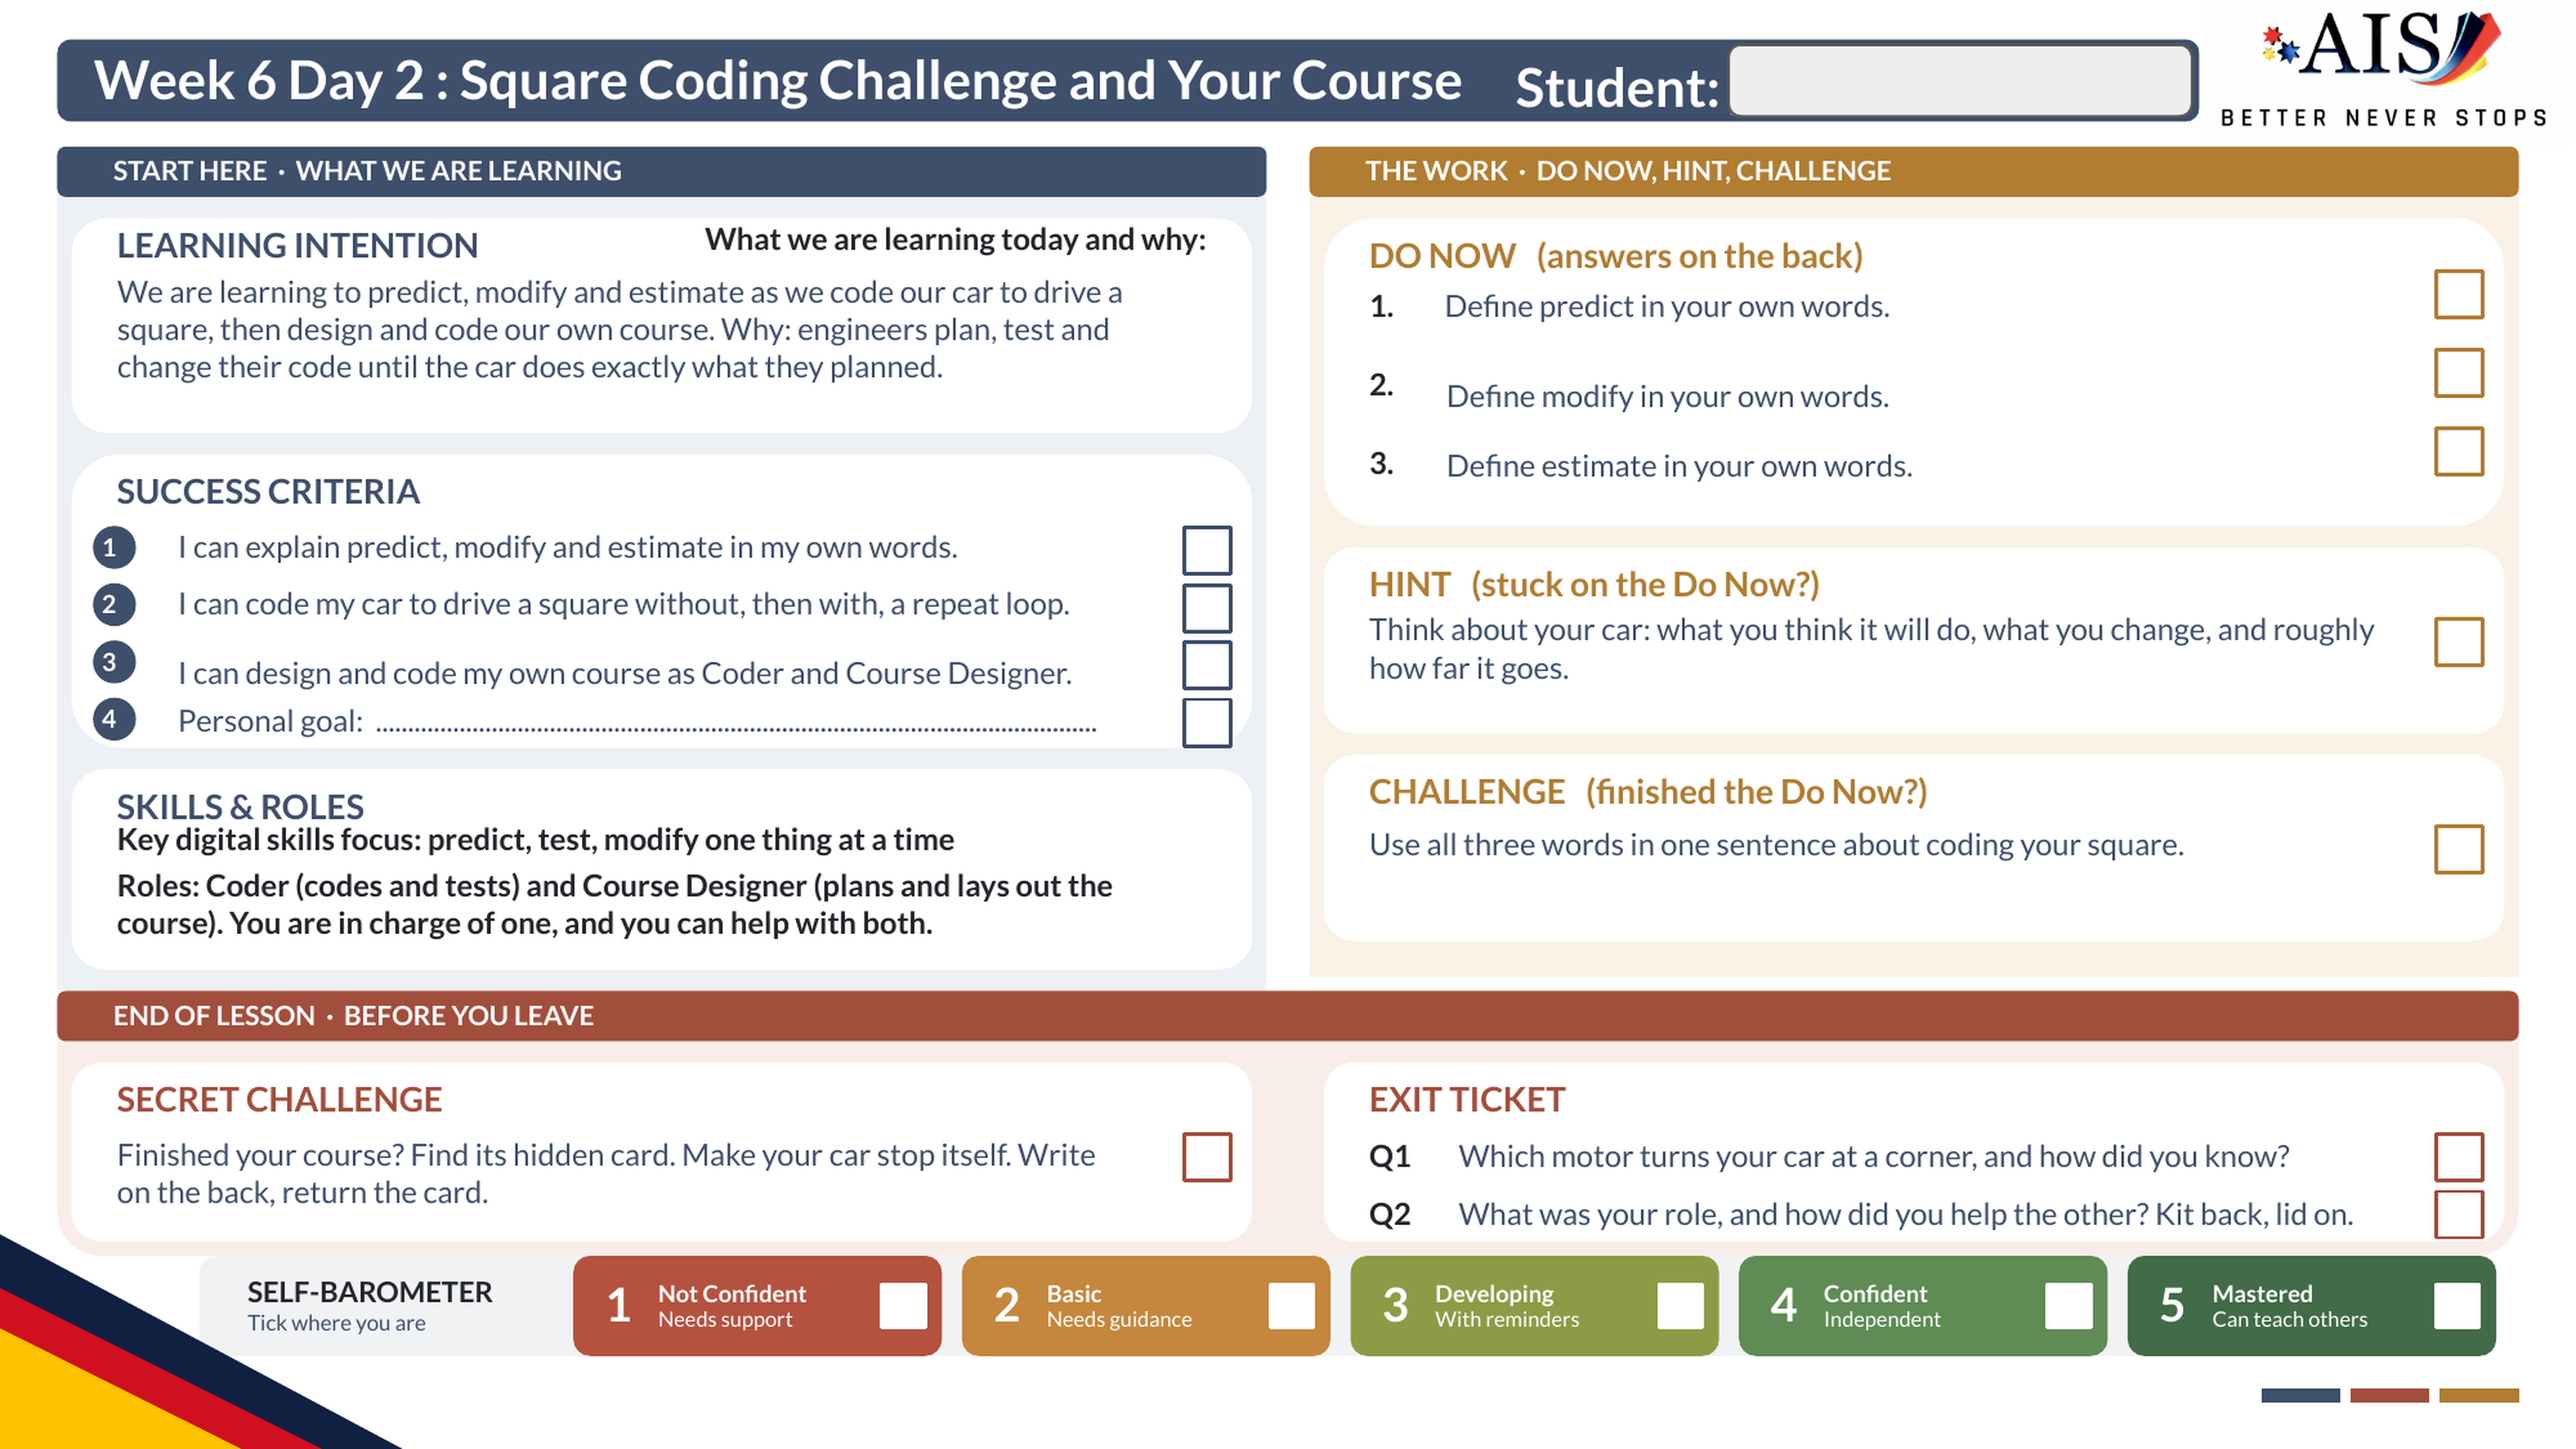
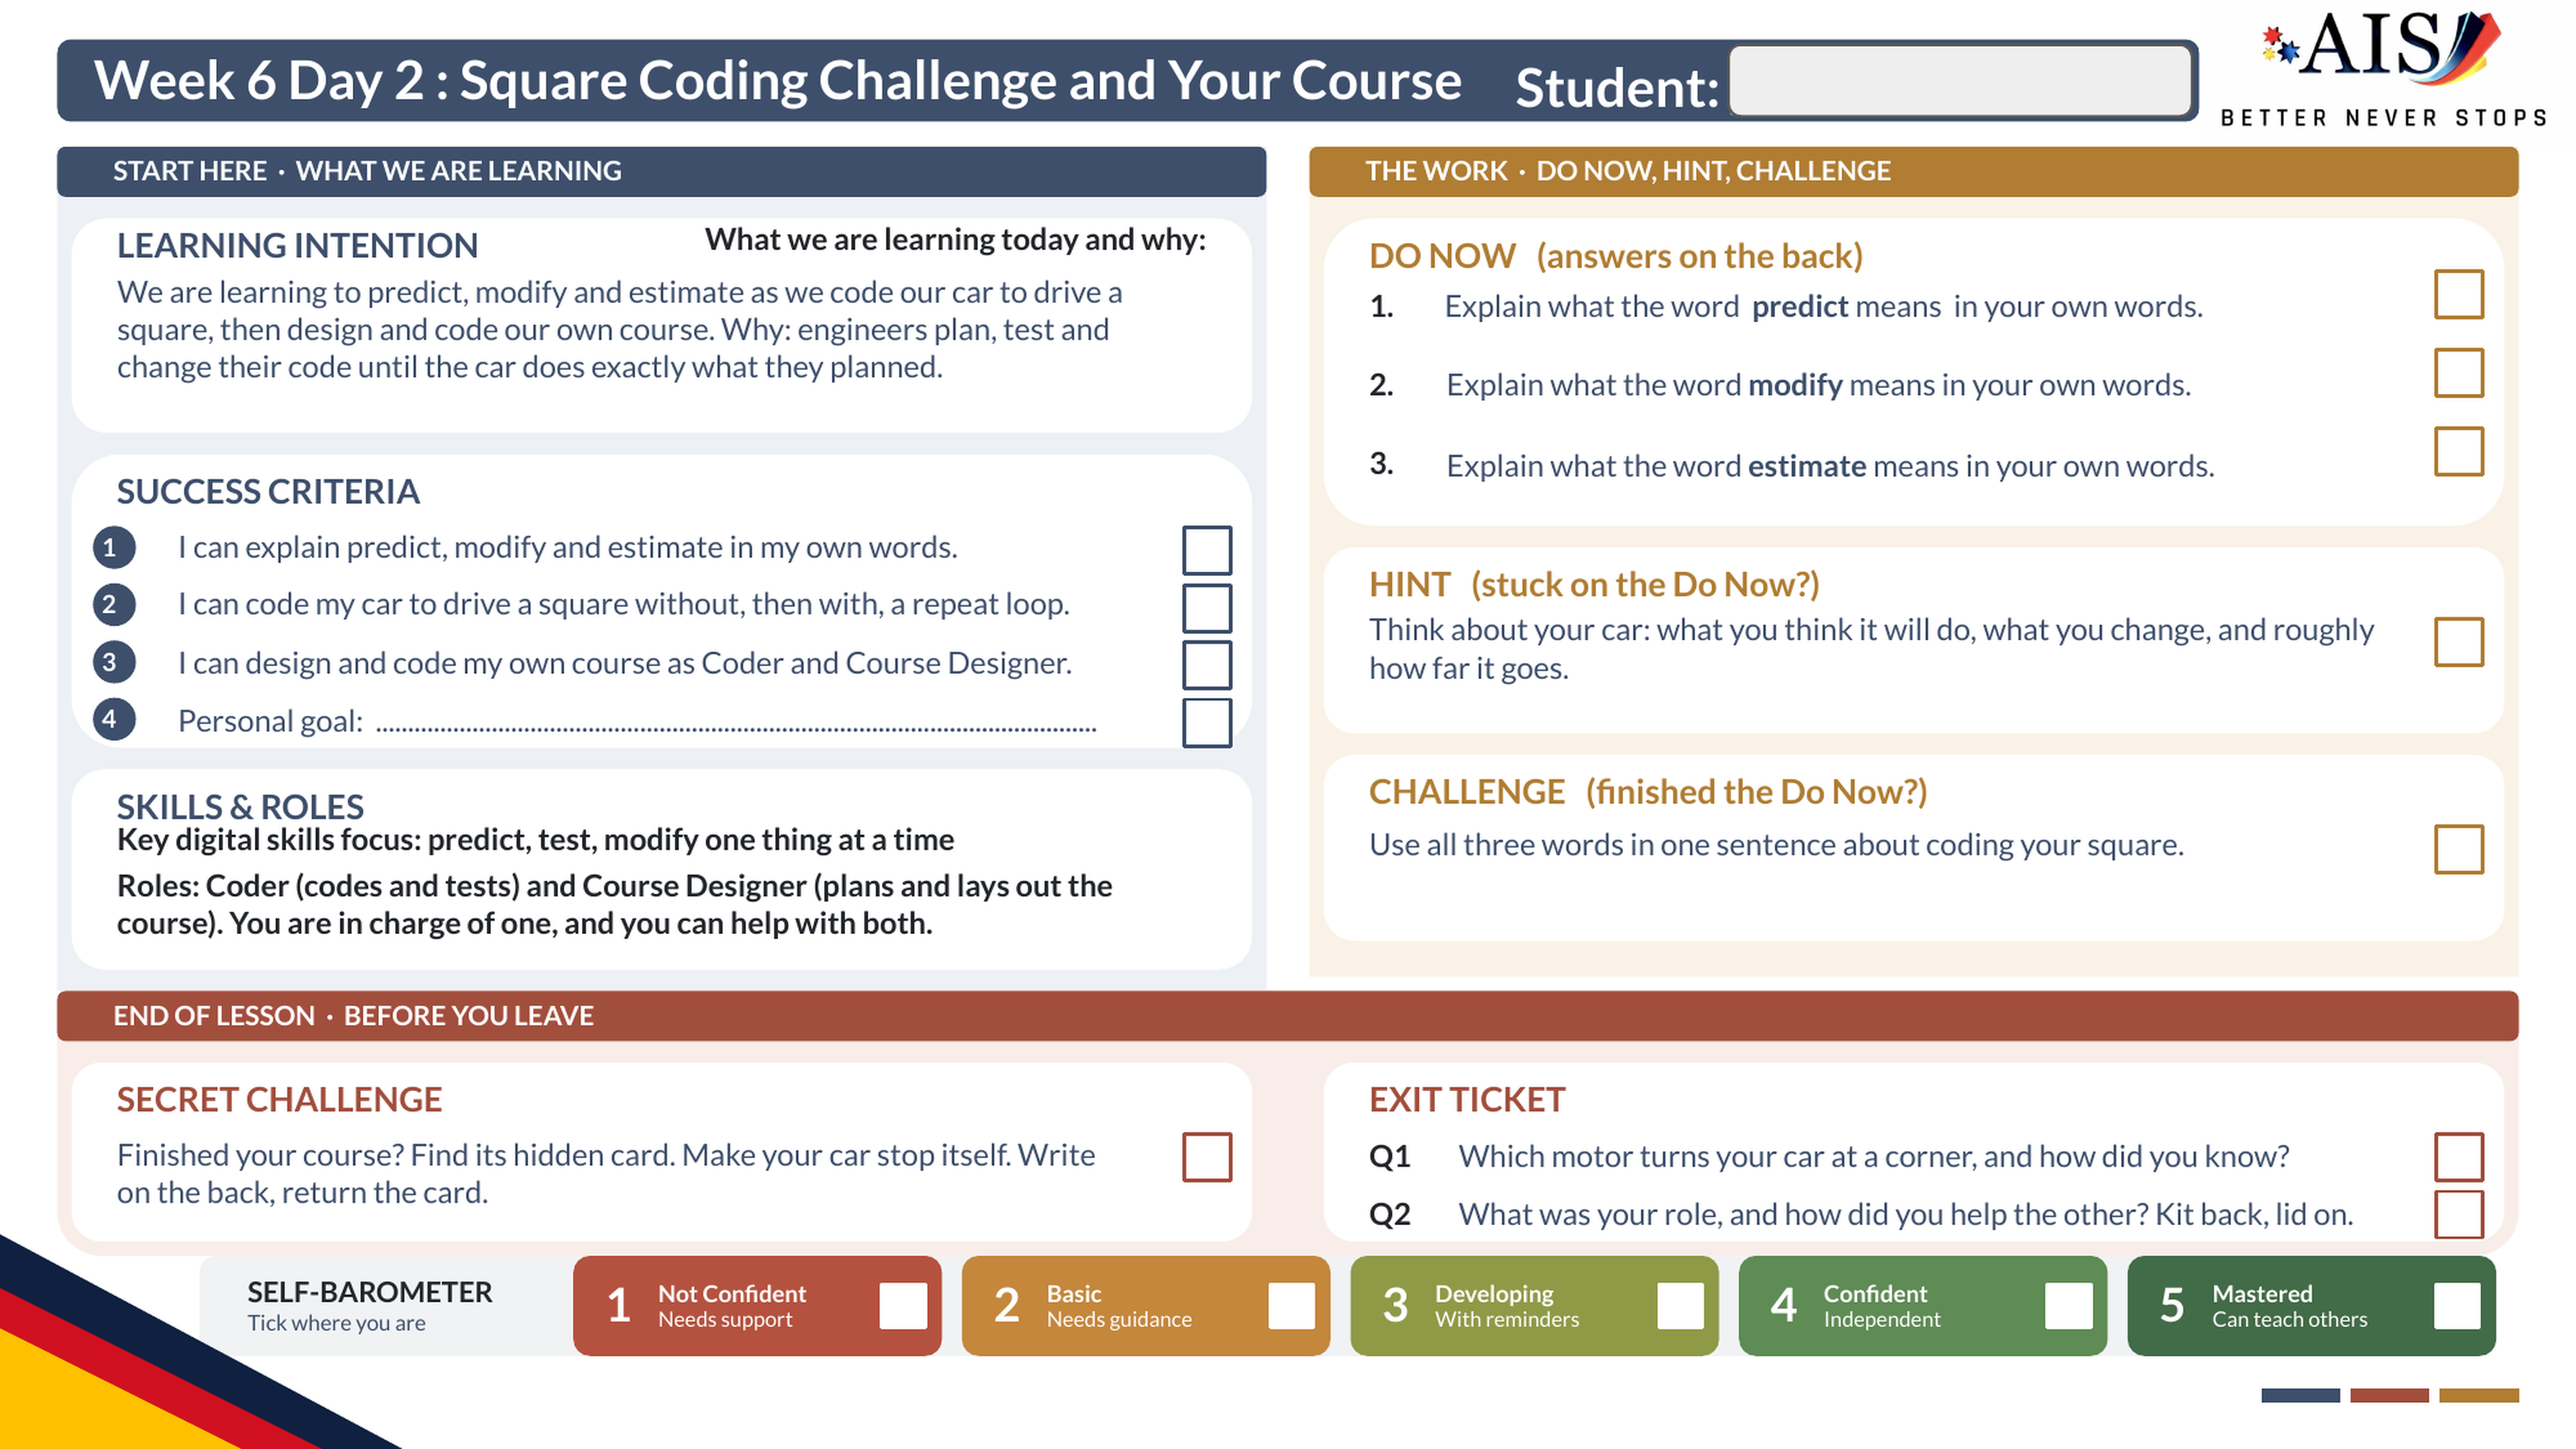
Do Now wording from Igor's sheet; print Doc and tracking sheet links in the Pre and Post List (v20261007-1240)

diff --git a/g7-week6-lesson2.html b/g7-week6-lesson2.html
@@ -1446,7 +1446,7 @@ ul.plain li::before { color:var(--p-i-ink); }
   </div>
 </section>
 
-<section data-element="donow" class="slide g-well" data-timer="360" data-timer-group="donow" id="doNowSlide" data-notes="&lt;strong&gt;Do Now, 6 minutes on the printed Student Sheet. Start the clock top left.&lt;/strong&gt; Blank first: the sheet and a pen, answers on the back. Take the register while they write, then circulate. &lt;strong&gt;The ring walks on NEXT, inside the same 6 minutes:&lt;/strong&gt; Do Now 1 (define predict), Do Now 2 (define modify), Do Now 3 (define estimate), then the Hint for anyone stuck, then the Challenge for anyone who finishes early. &lt;strong&gt;The Hint:&lt;/strong&gt; think about your car: what you think it will do, what you change, and roughly how far it goes. &lt;strong&gt;The Challenge:&lt;/strong&gt; use all three words in one sentence about coding your square. Next is the Turn and Talk, which is the check on these three words, so nothing is read out here. Say nothing about the answers yet: the words get checked together.">
+<section data-element="donow" class="slide g-well" data-timer="360" data-timer-group="donow" id="doNowSlide" data-notes="&lt;strong&gt;Do Now, 6 minutes on the printed Student Sheet. Start the clock top left.&lt;/strong&gt; Blank first: the sheet and a pen, answers on the back. Take the register while they write, then circulate. &lt;strong&gt;The ring walks on NEXT, inside the same 6 minutes:&lt;/strong&gt; Do Now 1 (explain what the word predict means), Do Now 2 (modify), Do Now 3 (estimate), then the Hint for anyone stuck, then the Challenge for anyone who finishes early. &lt;strong&gt;The Hint:&lt;/strong&gt; think about your car: what you think it will do, what you change, and roughly how far it goes. &lt;strong&gt;The Challenge:&lt;/strong&gt; use all three words in one sentence about coding your square. Next is the Turn and Talk, which is the check on these three words, so nothing is read out here. Say nothing about the answers yet: the words get checked together.">
   <div class="slide-content" style="max-width:min(96vw,2400px)">
     <p class="eyebrow reveal">// do_now</p>
     <h2 class="reveal" style="margin-bottom:calc(var(--element-gap) * 0.35)">Do Now</h2>
@@ -1980,7 +1980,7 @@ ul.plain li::before { color:var(--p-i-ink); }
    name, so a hide survives a refresh mid-lesson but never outlives a push.
    Everything else (font scale, teacher toggle, iSAMS state, timers) stays session-only. */
 const SHEET_URL = 'https://docs.google.com/presentation/d/1FfpzV293fRHohL2V64Vb4yLowLoq3jUKEjjXhjS_lIY/edit';
-const DECK_VERSION = 'v20261007-1200';
+const DECK_VERSION = 'v20261007-1240';
 
 /* ===========================================
    RUNTIME_STRIP: everything the boot code builds or writes at run time.
@@ -2039,9 +2039,13 @@ const ELEMENTS = [
   { id: 'prep',    name: 'Pre and Post List', prep: true, items: [
     { text: 'Print 20 copies of the one page Student Sheet.', link: 'sheet file',
       href: 'https://docs.google.com/presentation/d/1FfpzV293fRHohL2V64Vb4yLowLoq3jUKEjjXhjS_lIY/edit' },
-    { text: 'Print and hide Secret Challenge card 9, The Car That Stops Itself (from the Spike Prime bank), in an envelope with the flap tucked in, not sealed, somewhere in IG04.' },
+    { text: 'Print and hide Secret Challenge card 9, The Car That Stops Itself (page 1 of the print Doc), in an envelope with the flap tucked in, not sealed, somewhere in IG04.', link: 'print Doc',
+      href: 'https://docs.google.com/document/d/1tF4Pw7La1ALdFHsTQrJn_I16Js-V-Hk7Wn0bRAhUApM/edit' },
     { text: 'Soft boxes ready for the Secret Challenge, one for the end of every straight.' },
-    { text: 'The two role cards, Coder and Course Designer, are in the deck: nothing to print.' },
+    { text: 'Print the two role cards, Coder and Course Designer (pages 2 and 3 of the print Doc). They are also on slide 7.', link: 'role cards',
+      href: 'https://docs.google.com/document/d/1tF4Pw7La1ALdFHsTQrJn_I16Js-V-Hk7Wn0bRAhUApM/edit' },
+    { text: 'Tracking sheet open on your laptop: column T shows who finished the Square Coding Challenge; car numbers for the iPad.', link: 'tracking sheet',
+      href: 'https://docs.google.com/spreadsheets/d/1TFUbZ6vhZF1lvIkHHocAjgUEoSKXsJ0LRJWBRlT8oGo/edit' },
     { text: 'Pencils out for the square and the courses: at least 8 per student, in boxes where anyone can take them. Rulers and metre rulers too.' },
     { text: 'The four card suit signs are up in IG04, one in each corner (Spades, Hearts, Diamonds, Clubs), for Four Corners. The deck draws the card.' },
     { text: 'Laptops charged, chargers near; spare headphones; the kits\' USB cables within reach as the fallback.' },
